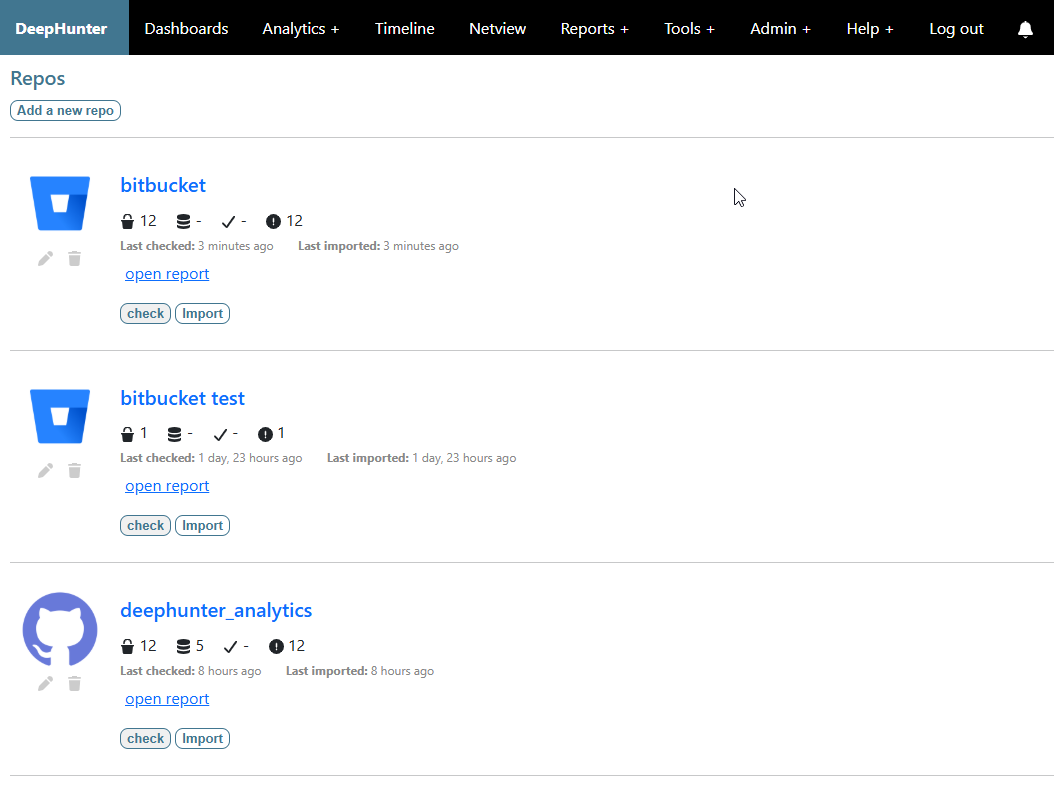
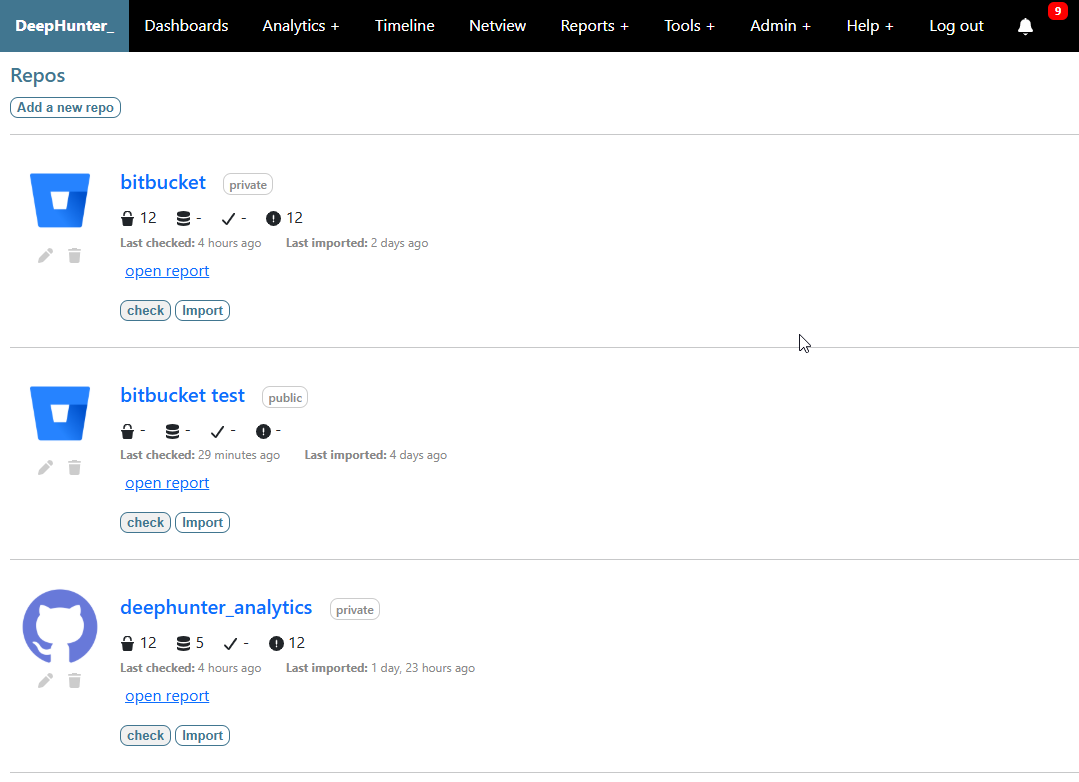
FR #201 - Support private repos

diff --git a/repos/templates/add_repo.html b/repos/templates/add_repo.html
@@ -4,17 +4,67 @@
     <link rel="stylesheet" href="/static/css/list_analytics.css" />
     <link rel="stylesheet" href="/static/css/repos.css" />
 {% endblock %}
+{% block js %}
+    <script src="/static/fontawesome/all.min.js"></script>
+{% endblock %}
 
 {% block body %}
 <div class="padaround">
-    <h1><a href="/repos/listrepos/">Repos</a> > Add a new repo</h1>
-    <p>Only github.com and bitbucket.org repos are supported currently.</p>
+    <h1><a href="/repos/listrepos/">Repos</a> > {% if repo %}Edit {{ repo.name }}{% else %}Add a new repo{% endif %}</h1>
+	<div class="alert alert-info d-flex flex-row">
+		<div class="padright20"><i class="fas fa-fw fa-info-circle mr-3 mt-1"></i></div>
+        <div class="notification-message">
+            <li>Only github.com and bitbucket.org repos are supported currently.</li>
+            <li>If the repo is private, a <a href="https://github.com/settings/personal-access-tokens" target="_blank">personal access token</a> is required for GitHub, and an <a href="https://bitbucket.org/account/settings/app-passwords/" target="_blank">Application password</a> is required for BitBucket.</li>
+        </div>
+	</div>
 
-    <form method="post" action="{% url 'add_repo' %}">
+    <form method="post" action="{% if repo %}{% url 'edit_repo' repo.id %}{% else %}{% url 'add_repo' %}{% endif %}">
         {% csrf_token %}
-        {{ form.as_p }}
-        <input type="submit" value="Add Repo" class="button">
+        <p>
+            {{ form.name.errors }}
+            {{ form.name.label_tag }}
+            {{ form.name }}
+            <span class="helptext">{{ form.name.help_text }}</span>
+        </p>
+        <p>
+            {{ form.url.errors }}
+            {{ form.url.label_tag }}
+            {{ form.url }}
+            <span class="helptext">{{ form.url.help_text }}</span>
+        </p>
+        <p>
+            {{ form.is_private.errors }}
+            {{ form.is_private.label_tag }}
+            {{ form.is_private }}
+            <span class="helptext">{{ form.is_private.help_text }}</span>
+        </p>
+        <div id="token-field" class="{% if not form.is_private.value %}hidden{% endif %}">
+            <p>
+                {{ form.token.errors }}
+                {{ form.token.label_tag }}
+                {{ form.token }}
+                <span class="helptext">{{ form.token.help_text }}</span>
+            </p>
+        </div>
+        <input type="submit" value="{% if repo %}Update Repo{% else %}Add Repo{% endif %}" class="button">
         <a href="{% url 'list_repos' %}" class="button">Cancel</a>
     </form>
 </div>
+
+<script nonce="lk8d3h5bvz">
+document.addEventListener('DOMContentLoaded', function() {
+    var isPrivateCheckbox = document.getElementById("id_is_private");
+    var tokenField = document.getElementById("token-field");
+    if (isPrivateCheckbox && tokenField) {
+        isPrivateCheckbox.addEventListener('change', function() {
+            if (this.checked) {
+                tokenField.classList.remove('hidden');
+            } else {
+                tokenField.classList.add('hidden');
+            }
+        });
+    }
+});
+</script>
 {% endblock %}

diff --git a/repos/templates/list_repos.html b/repos/templates/list_repos.html
@@ -35,10 +35,10 @@
             <div class="repo_details">
                 <h3 class="repo">
                     <a href="{{ repo.url }}" target="_blank" title="{{ repo.url }}">{{ repo.name }}</a>
+                    <span class="repo_visibility">{% if repo.is_private %}private{% else %}public{% endif %}</span>
                 </h3>
                 <div class="repo_import_info" hx-get="/repos/{{ repo.id }}/get-repo-import-info/" hx-trigger="load, every 10s"></div>
                 <div class="actions_buttons">
-                    {% if repo.last_check_date %}<a href="/repos/report/{{ repo.id }}/" class="button">open report</a>{% endif %}
                     <span hx-get="/repos/{{ repo.id }}/progress-import-repo/" hx-trigger="load, every 3s"></span>
                 </div>
             </div>

diff --git a/static/css/repos.css b/static/css/repos.css
@@ -6,7 +6,7 @@ label {
 
 span.helptext {
     font-style: italic;
-    color: #ccc;
+    color: #888;
 }
 
 table.form td,
@@ -81,4 +81,24 @@ span.icon {
 span.icon a {
     text-decoration: none;
     color: #ccc;
+}
+
+.repo_visibility {
+    font-size: 12px;
+    color: #888;
+    margin-left: 10px;
+    border: solid 1px #ccc;
+	border-radius: 8px;
+    padding-left: 5px;
+    padding-right: 5px;
+    padding-top: 2px;
+    padding-bottom: 2px;
+}
+
+.hidden {
+    display: none !important;
+}
+
+.notification-message li > a:after {
+  content: '';
 }

diff --git a/plugins/bitbucket.py b/plugins/bitbucket.py
@@ -8,6 +8,7 @@ import requests
 from django.conf import settings
 from pathlib import Path
 from notifications.utils import add_error_notification
+from requests.auth import HTTPBasicAuth
 
 _globals_initialized = False
 def init_globals():
@@ -29,17 +30,26 @@ def parse_bitbucket_url(url):
     path = parts[4] if len(parts) > 4 else ''
     return repo_owner, repo_slug, branch, path
 
-def get_bitbucket_contents(url):
+def get_bitbucket_contents(repo):
+    """
+    Returns a list of JSON files in a Bitbucket repo
+    :param repo: The repo object
+    :return: A list of JSON files or empty list if error
+    """
     init_globals()
 
     full = []
-    repo_owner, repo_slug, branch, path = parse_bitbucket_url(url)
+    repo_owner, repo_slug, branch, path = parse_bitbucket_url(repo.url)
     if path:
         api_url = f"https://api.bitbucket.org/2.0/repositories/{repo_owner}/{repo_slug}/src/{branch}/{path}"
     else:
         api_url = f"https://api.bitbucket.org/2.0/repositories/{repo_owner}/{repo_slug}/src/{branch}/"
 
-    response = requests.get(api_url, proxies=PROXY)
+    if repo.token:
+        response = requests.get(api_url, auth=HTTPBasicAuth(repo_owner, repo.token), proxies=PROXY)
+    else:
+        response = requests.get(api_url, proxies=PROXY)
+    
     if response.status_code == 200:
         data = response.json()
         for item in data.get('values'):
@@ -52,7 +62,10 @@ def get_bitbucket_contents(url):
         # Bitbucket is paginating results. The "next" key returns the URL of the next page results
         while "next" in response.json():
             api_url = response.json()["next"]
-            response = requests.get(api_url, proxies=PROXY)
+            if repo.token:
+                response = requests.get(api_url, auth=HTTPBasicAuth(repo_owner, repo.token), proxies=PROXY)
+            else:
+                response = requests.get(api_url, proxies=PROXY)
             data = response.json()
             for item in data.get('values'):
                 if item['type'] == 'commit_file' and Path(item['path']).suffix == ".json":
@@ -64,5 +77,5 @@ def get_bitbucket_contents(url):
         return full
 
     # In case of an error
-    add_error_notification(f"Bitbucket connector: error (status code {response.status_code}) connecting to {url}")
+    add_error_notification(f"Bitbucket connector: error (status code {response.status_code}) connecting to {repo.url}")
     return []

diff --git a/plugins/github.py b/plugins/github.py
@@ -35,13 +35,27 @@ def parse_github_url(url):
         path = ''
     return owner, repo, branch, path
 
-def get_github_contents(url):
+def get_github_contents(repo):
+    """
+    Returns a list of JSON files in a GitHub repo
+    :param repo: The repo object
+    :return: A list of JSON files or empty list if error
+    """
     init_globals()
 
-    owner, repo, branch, path = parse_github_url(url)
-    api_url = f"https://api.github.com/repos/{owner}/{repo}/contents/{path}"
+    owner, repo_name, branch, path = parse_github_url(repo.url)
+    api_url = f"https://api.github.com/repos/{owner}/{repo_name}/contents/{path}"
     
-    response = requests.get(api_url, proxies=PROXY)
+    if repo.token:
+        headers = {
+            "Authorization": f"token {repo.token}",
+            "Accept": "application/vnd.github.v3+json"
+        }
+    else:
+        headers = {}
+    
+    response = requests.get(api_url, headers=headers, proxies=PROXY)
+    
     if response.status_code == 200:
         data = response.json()
         return [
@@ -54,6 +68,6 @@ def get_github_contents(url):
         ]
 
     # In case of an error
-    add_error_notification(f"GitHub connector: error (status code {response.status_code}) connecting to {url}")
+    add_error_notification(f"GitHub connector: error (status code {response.status_code}) connecting to {repo.url}")
     return []
     

diff --git a/repos/views.py b/repos/views.py
@@ -31,14 +31,7 @@ REPO_IMPORT_DEFAULT_RUN_DAILY = settings.REPO_IMPORT_DEFAULT_RUN_DAILY
 
 @login_required
 def list_repos(request):
-    repos = []
-    for repo in Repo.objects.all():
-        repos.append({
-            "id": repo.id,
-            "name": repo.name,
-            "url": repo.url,
-        })
-    context = {"repos": repos}
+    context = {"repos": Repo.objects.all()}
     return render(request, "list_repos.html", context)
 
 def get_repo_import_info(request, repo_id):
@@ -58,9 +51,9 @@ def get_repo_import_info(request, repo_id):
 def import_repo_select_analytics(request, repo_id):
     repo = get_object_or_404(Repo, pk=repo_id)
     if "github.com" in repo.url:
-        contents = all_connectors.get('github').get_github_contents(repo.url)
+        contents = all_connectors.get('github').get_github_contents(repo)
     elif "bitbucket.org" in repo.url:
-        contents = all_connectors.get('bitbucket').get_bitbucket_contents(repo.url)
+        contents = all_connectors.get('bitbucket').get_bitbucket_contents(repo)
     context = {
         "repo": repo,
         "contents": contents,
@@ -113,7 +106,7 @@ def edit_repo(request, repo_id):
         'form': form,
         'repo': repo,
     }
-    return render(request, 'edit_repo.html', context)
+    return render(request, 'add_repo.html', context)
 
 @login_required
 def report(request, repo_id):

diff --git a/repos/models.py b/repos/models.py
@@ -3,7 +3,9 @@ from django.core.exceptions import ValidationError
 
 class Repo(models.Model):
     name = models.CharField(max_length=100, unique=True)
-    url = models.URLField(unique=True)   
+    url = models.URLField(unique=True)
+    is_private = models.BooleanField(default=False)
+    token = models.CharField(max_length=200, blank=True, null=True, help_text="Only for private repos. Token (GitHub) or App password (Bitbucket).")
     last_check_date = models.DateTimeField(null=True, blank=True, editable=False)
     last_import_date = models.DateTimeField(null=True, blank=True, editable=False)
 
@@ -12,8 +14,13 @@ class Repo(models.Model):
 
     def clean(self):
         super().clean()
+        # Only support github and bitbucket repos
         if not ("github.com/" in self.url or "bitbucket.org/" in self.url):
             raise ValidationError({'url': 'Only GitHub and Bitbucket repos are currently supported.'})
+        # If private repo, token is mandatory
+        if self.is_private and not self.token:
+            raise ValidationError({'token': 'Token is mandatory for private repos.'})
+
 
 class RepoAnalytic(models.Model):
     repo = models.ForeignKey(Repo, on_delete=models.CASCADE)

diff --git a/repos/admin.py b/repos/admin.py
@@ -2,8 +2,8 @@ from django.contrib import admin
 from .models import Repo, RepoAnalytic
 
 class RepoAdmin(admin.ModelAdmin):
-    list_display = ('name', 'url', 'get_nb_analytics', 'get_nb_analytics_valid', 'get_nb_analytics_errors', 'last_check_date', 'last_import_date')
-    list_filter = ['last_check_date', 'last_import_date']
+    list_display = ('name', 'url', 'is_private', 'token', 'get_nb_analytics', 'get_nb_analytics_valid', 'get_nb_analytics_errors', 'last_check_date', 'last_import_date')
+    list_filter = ['last_check_date', 'last_import_date', 'is_private']
     search_fields = ['name', 'url']
 
     @admin.display(description='nb_analytics')

diff --git a/repos/tasks.py b/repos/tasks.py
@@ -42,9 +42,9 @@ def import_repo_task(repo_id, mode, selected_analytics=None):
         add_debug_notification(f'Starting import repo task: {repo.name} (mode: {mode})')
 
     if "github.com" in repo.url:
-        contents = all_connectors.get('github').get_github_contents(repo.url)
+        contents = all_connectors.get('github').get_github_contents(repo)
     elif "bitbucket.org" in repo.url:
-        contents = all_connectors.get('bitbucket').get_bitbucket_contents(repo.url)
+        contents = all_connectors.get('bitbucket').get_bitbucket_contents(repo)
     nb_analytics = 0
 
     # We delete previous ref in RepoAnalytic related to this repo

diff --git a/repos/forms.py b/repos/forms.py
@@ -4,14 +4,9 @@ from .models import Repo
 class RepoForm(forms.ModelForm):
     class Meta:
         model = Repo
-        fields = ['name', 'url']
+        fields = ['name', 'url', 'is_private', 'token']
         widgets = {
             'name': forms.TextInput(attrs={'size': 50}),
             'url': forms.TextInput(attrs={'size': 100}),
+            'token': forms.TextInput(attrs={'size': 100}),
         }
-
-    def clean(self):
-        cleaned_data = super().clean()
-        name = cleaned_data.get('name')
-        url = cleaned_data.get('url')
-        return cleaned_data

diff --git a/docs/repos/add_repo.rst b/docs/repos/add_repo.rst
@@ -5,6 +5,11 @@ To add a new repository, navigate to the `list repos <list_repos.html>`_ view an
 
 Repositories currently supported are public GitHub and BitBucket repos.
 
+If the repo is private, you will need:
+
+- a `Private Access Token (PAT) <https://github.com/settings/personal-access-tokens>`_ for GitHub Repositories
+- an `Application password <https://bitbucket.org/account/settings/app-passwords/>`_  for BitBucket repositories
+
 .. image:: ../img/add_repo.png
   :alt: add repository
 
